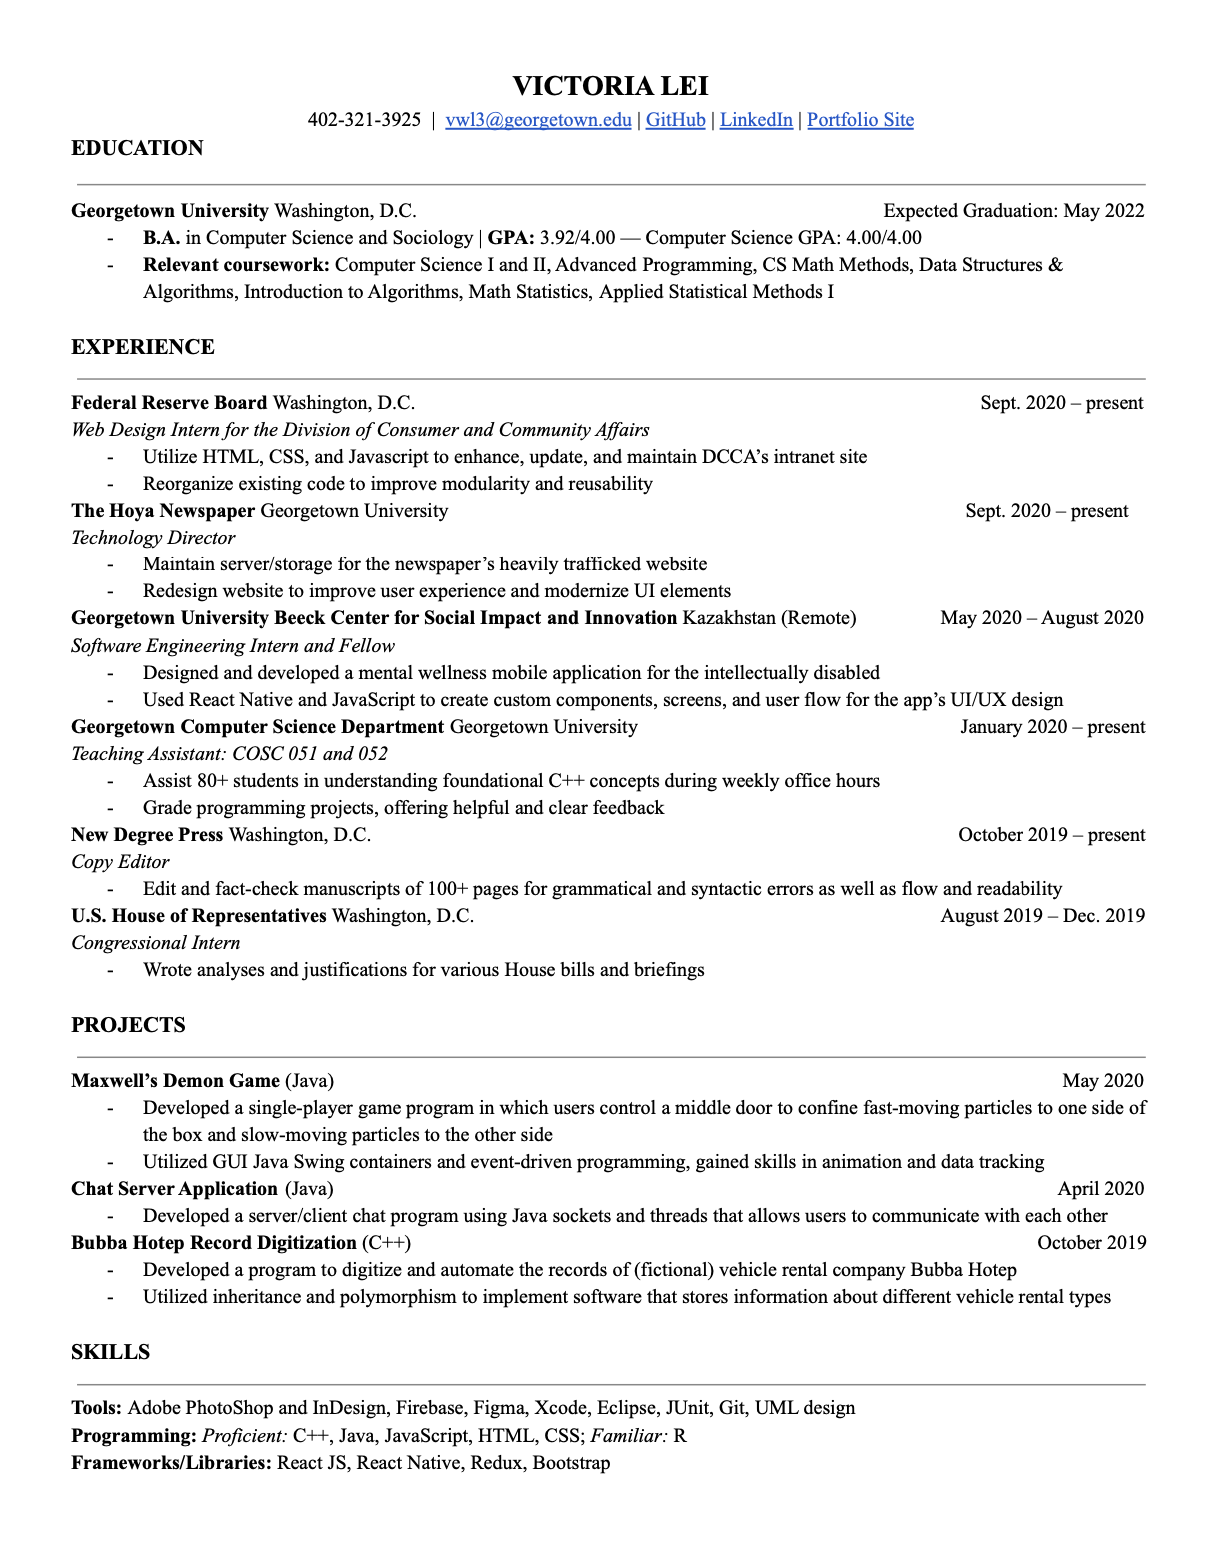
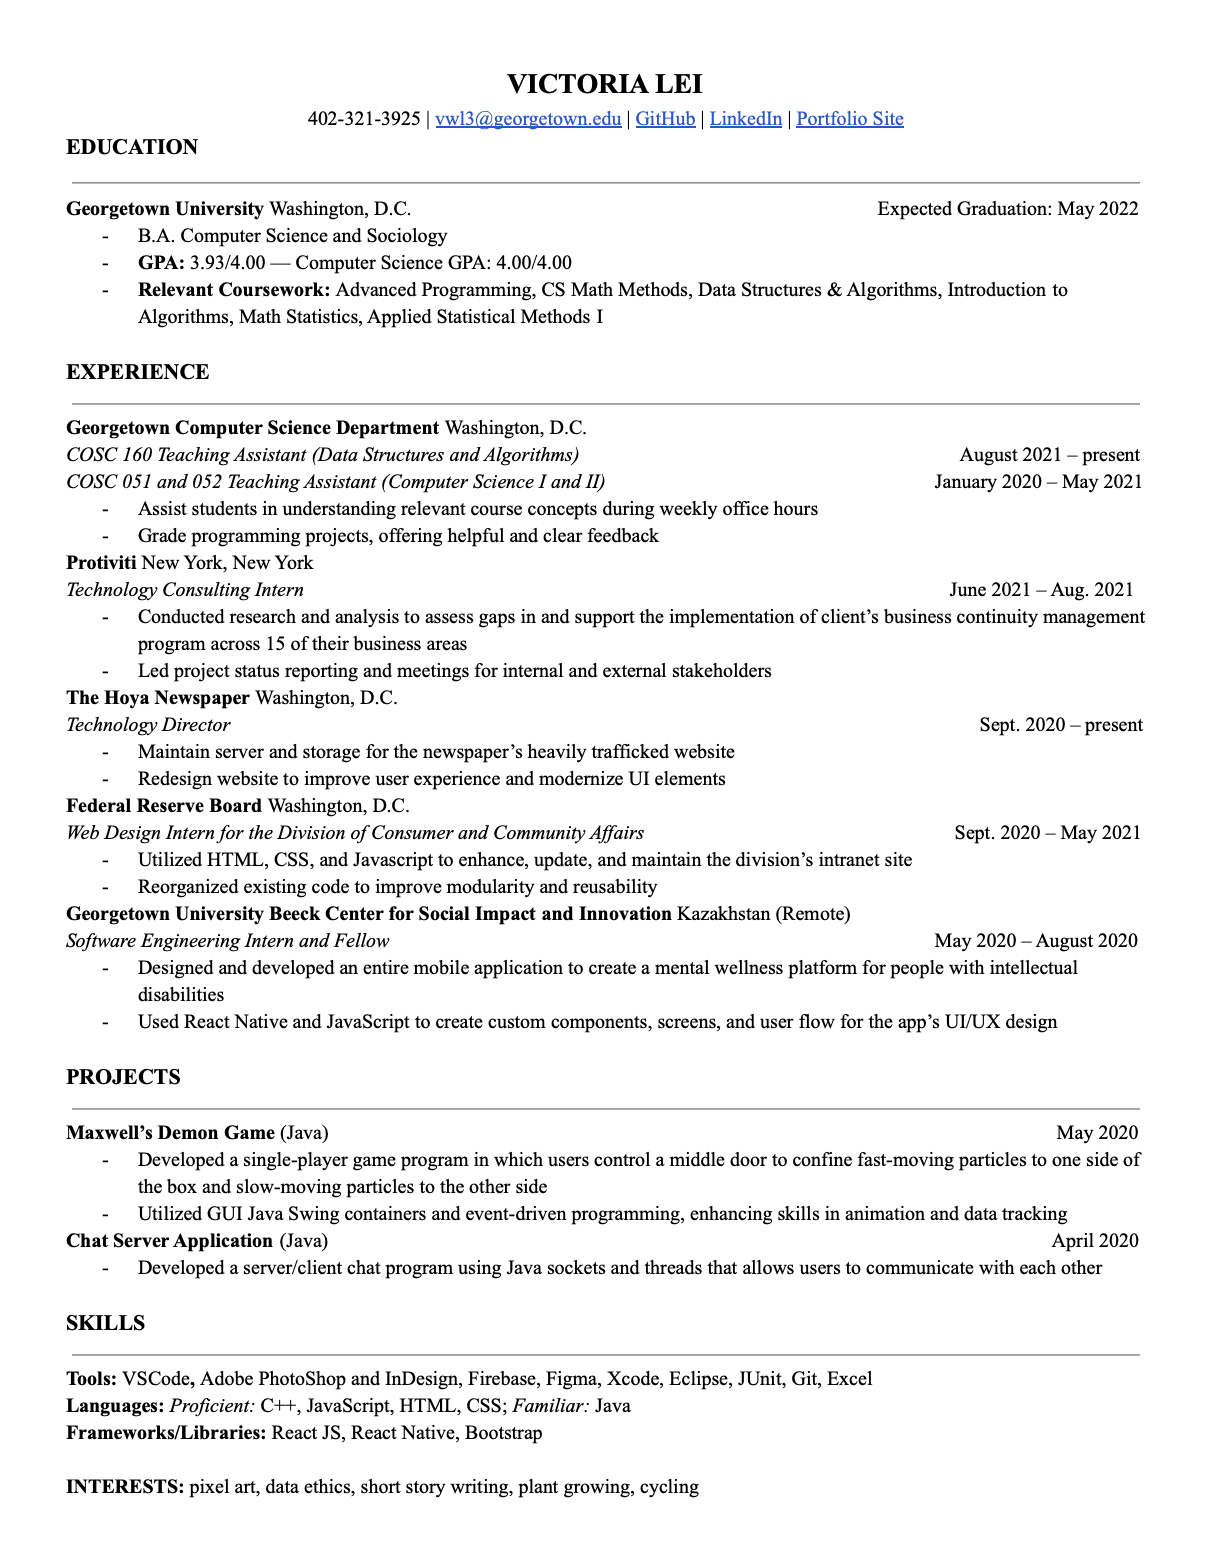
added protiviti to experience

Changed region(s): [[0.061, 0.0927, 0.9448, 0.9575], [0.2438, 0.0309, 0.7619, 0.0927], [0.7924, 0.2471, 0.9448, 0.3398]]

diff --git a/index.html b/index.html
@@ -112,10 +112,19 @@
 							</ul>
 						</div>
 						<div class="col-3">
-							<h6>currently learning</h6>
+							<h6>skills</h6>
 							<ul>
-								<li>Introduction to Data Science</li>
-								<li>Programming Languages</li>
+								<li>C++</li>
+								<li>Javascript</li>
+								<li>HTML/CSS</li>
+								<li>Java</li>
+							</ul>
+							<ul>
+								<li>currently studying:</li>
+									<ul>
+										<li>Introduction to Data Science</li>
+										<li>Programming Languages</li>
+									</ul>
 							</ul>
 						</div>
 						<div class="col-3">
@@ -131,13 +140,12 @@
 							<ul>
 								<li>Cycling</li>
 								<li>Pixel Art</li>
-								<li>Growing Plants</li>
+								<li>Plant Growing</li>
 							</ul>
 						</div>
 					</div>
-					<div class="row justify-content-center"><h6>skills</h6></div>
-					<div class="row justify-content-center">
-						<h6>actively seeking new grad opportunities</h6>
+					<div class="row justify-content-center" style="margin-top: 1em;">
+						<h6>**actively seeking new grad opportunities**</h6>
 					</div>
 				</div>
 			</div>
@@ -150,15 +158,41 @@
 					<div class="row">
 						<div class="col-3">
 							<img
-								src="./files/beecklogo.png"
+								src="./files/protivitilogo.png"
 								style="height: 100px; width: 250px"
 								class="image-center"
 							/>
 						</div>
 						<div class="col-3 mt-5">
 							<a href=""
-								><h6 class="title-center">
-									GU Impacts Fellow + Mobile Development Intern
+								><h6 class="title-center" style="margin-top:-1em">
+									Technology Consulting Intern @ Protiviti
+								</h6></a
+							>
+						</div>
+						<ul class="col-6">
+							<li>
+								Conducted research and analysis to assess gaps in and support the implementation of client’s business continuity management program across 15 of their business areas
+							</li>
+							<li>
+								Led project status reporting and meetings for internal and external stakeholders
+							</li>
+						</ul>
+					</div>
+				</div>
+				<div class="col mt-3" id="exp-item">
+					<div class="row">
+						<div class="col-3">
+							<img
+								src="./files/beecklogo.png"
+								style="height: 100px; width: 250px"
+								class="image-center"
+							/>
+						</div>
+						<div class="col-3 mt-5">
+							<a href="">
+								<h6 class="title-center">
+									Mobile Development Intern @ Beeck Center for Social Impact + Innovation
 								</h6></a
 							>
 						</div>
@@ -189,13 +223,20 @@
 						</div>
 						<div class="col-3" style="margin-top: 4em">
 							<a href="">
-								<h6 class="title-center">Teaching Assistant</h6>
+								<h6 class="title-center">Teaching Assistant @ Georgetown University</h6>
 							</a>
 						</div>
 						<ul class="col-6 mt-5">
-							<li>COSC 051 and 051: Computer Science I and II</li>
+							<li>Spring 2020, Fall 2021, Spring 2021</li>
+								<ul>
+									<li>COSC 051 and 052: Computer Science I and II</li>
+								</ul>
+							<li>Fall 2021</li>
+								<ul>
+									<li>COSC 160: Data Structures and Algorithms</li>
+								</ul>
 							<li>
-								Assist 80+ students in understanding foundational C++ concepts
+								Assist students in understanding relevant course concepts
 								during weekly office hours
 							</li>
 							<li>
